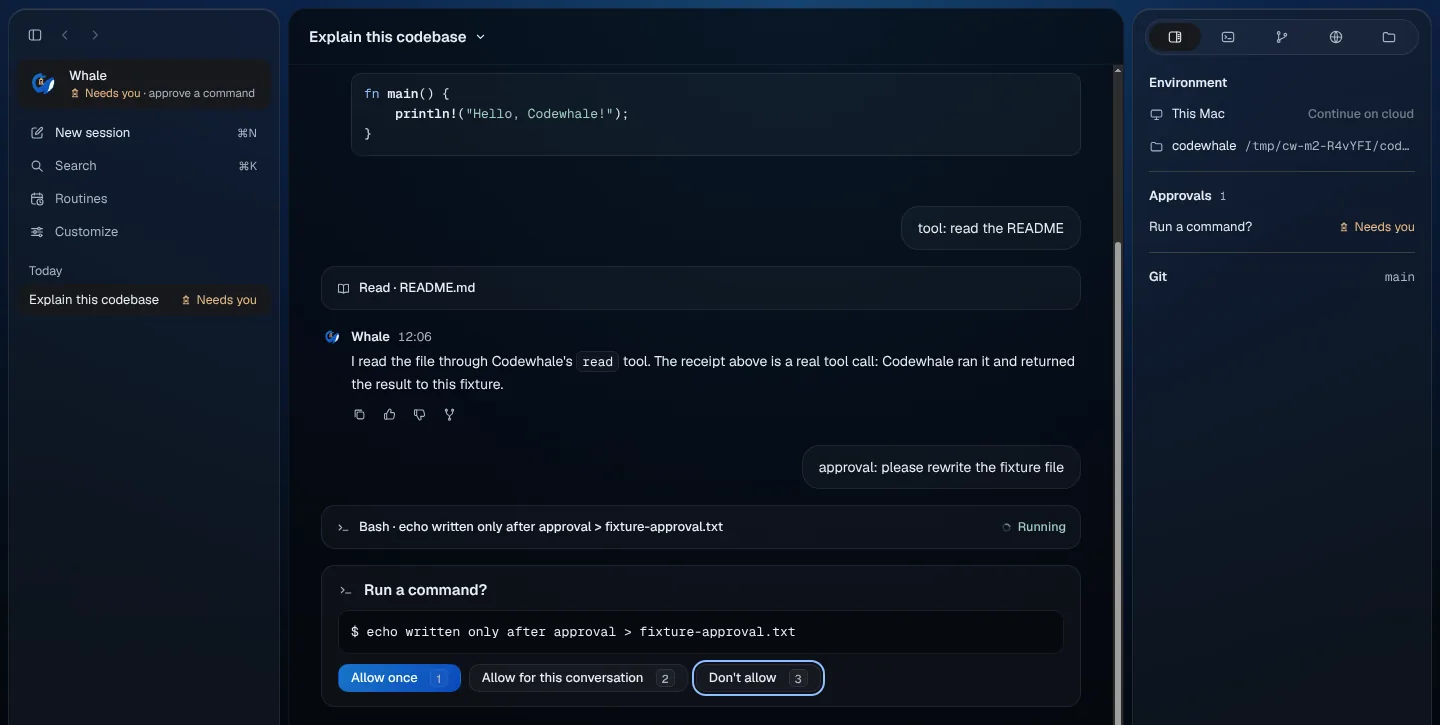
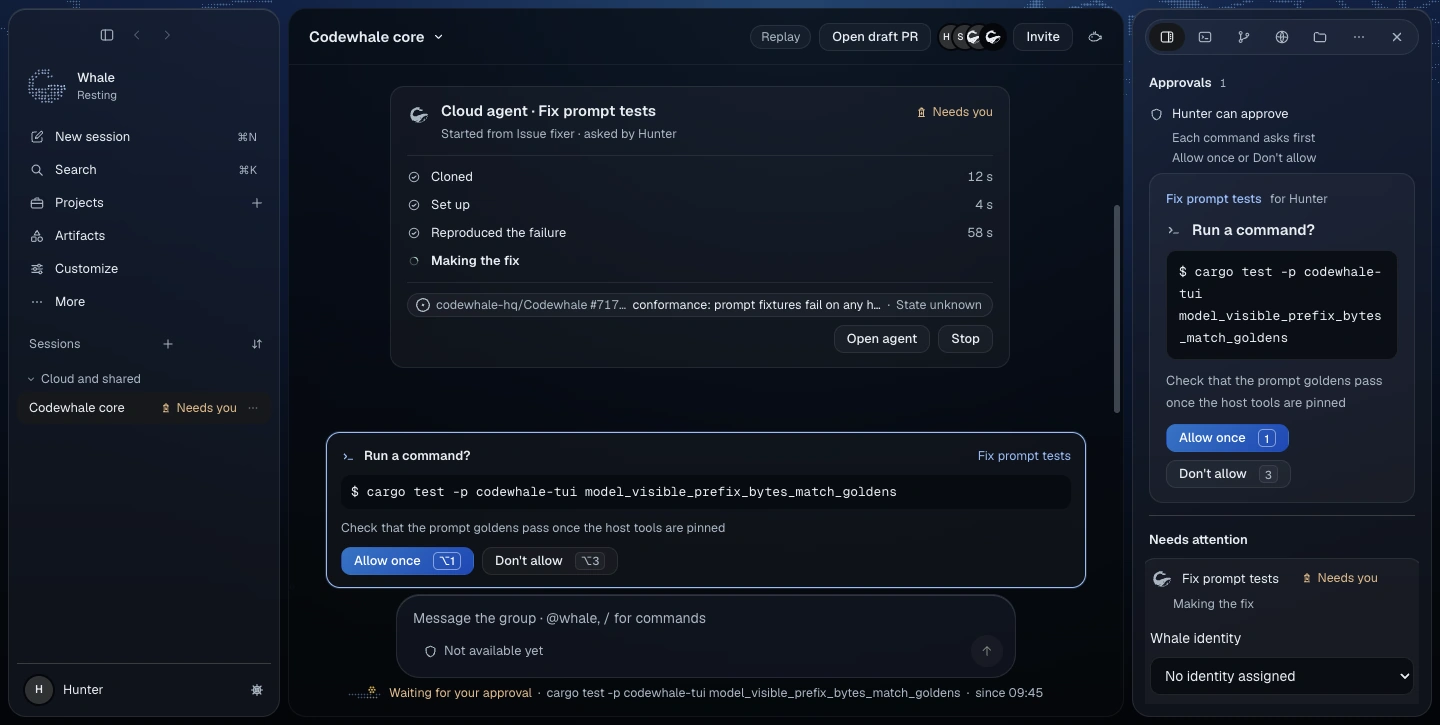
docs(web): refresh /app desktop showcase screenshots and copy for 0.10.3
Regenerated approval.webp, conversation.webp, and model-picker.webp via codewhale-app's reproducible record:desktop pipeline and updated APP_COPY.shots alt and caption copy in web/lib/content/app-page.ts to match the 0.10.3 desktop captures.

Checks: npm test (7/7 node tests, 93 files / 1321 vitest tests passed); check:facts, check:docs, check:tokens, tsc --noEmit, preflight: OK.

diff --git a/web/lib/content/app-page.ts b/web/lib/content/app-page.ts
@@ -62,12 +62,12 @@ export const APP_COPY = {
       width: 1440,
       height: 725,
       alt: {
-        en: "The desktop app showing a session named Explain this codebase. A sub-agent is running, and a side panel lists the agent, one changed file, the git branch and a short activity log.",
-        zh: "桌面应用中名为 Explain this codebase 的会话。一个子智能体正在运行，侧边栏列出该智能体、一个已更改的文件、Git 分支和简短的活动记录。",
+        en: "The desktop app showing a session named Codewhale core. A cloud agent named Fix prompt tests changed two files, ran an approved test command, and the side panel lists Changes, Ready to review, Environment, People and Activity.",
+        zh: "桌面应用中名为 Codewhale core 的会话。名为 Fix prompt tests 的云端智能体修改了两个文件并运行了已批准的测试命令，侧边栏列出更改、待审阅、环境、成员和活动记录。",
       },
       caption: {
-        en: "A session with a sub-agent running. The side panel keeps agents, changes and activity next to the conversation. Development build capture.",
-        zh: "子智能体运行中的会话。侧边栏把智能体、改动和活动记录放在对话旁边。开发版本截图。",
+        en: "A session with a cloud agent ready to review. The side panel keeps changes, environment, people and activity next to the conversation. Development build capture.",
+        zh: "云端智能体完成改动待审阅的会话。侧边栏把更改、环境、成员和活动记录放在对话旁边。开发版本截图。",
       },
     },
     {
@@ -75,8 +75,8 @@ export const APP_COPY = {
       width: 1440,
       height: 725,
       alt: {
-        en: "The desktop app asking Run a command? with the exact shell command shown and three buttons: Allow once, Allow for this conversation and Don't allow.",
-        zh: "桌面应用弹出“Run a command?”的询问，显示完整的 shell 命令，并提供三个按钮：Allow once、Allow for this conversation 和 Don't allow。",
+        en: "The desktop app asking Run a command? with the exact shell command shown and two buttons: Allow once and Don't allow.",
+        zh: "桌面应用弹出“Run a command?”的询问，显示完整的 shell 命令，并提供两个按钮：Allow once 和 Don't allow。",
       },
       caption: {
         en: "A command waits for your answer before it runs, with the exact command in view. Development build capture.",
@@ -88,12 +88,12 @@ export const APP_COPY = {
       width: 1440,
       height: 725,
       alt: {
-        en: "The desktop app's new session screen with the model picker open and filtered to two DeepSeek models, beside a thinking-level menu with Default, Off, Low, High and Max.",
-        zh: "桌面应用的新会话界面，模型选择器已打开并筛选出两个 DeepSeek 模型，旁边是包含 Default、Off、Low、High 和 Max 的思考强度菜单。",
+        en: "The desktop app's new session screen with the model picker open, DeepSeek selected on the provider rail, four DeepSeek models listed, and a switch at the bottom for This session or New sessions.",
+        zh: "桌面应用的新会话界面，模型选择器已打开，左侧供应商栏选中 DeepSeek 并列出四个 DeepSeek 模型，底部提供“当前会话”或“新会话”的切换开关。",
       },
       caption: {
-        en: "Choose a model and a thinking level before you start. Development build capture.",
-        zh: "开始前选择模型和思考强度。开发版本截图。",
+        en: "Pick a provider and model before you start, and choose whether the setting applies to this session or new sessions. Development build capture.",
+        zh: "开始前按供应商选择模型，并决定设置应用于当前会话还是新会话。开发版本截图。",
       },
     },
   ] satisfies AppShot[],

diff --git a/CHANGELOG.md b/CHANGELOG.md
@@ -35,6 +35,7 @@ and this project adheres to [Semantic Versioning](https://semver.org/spec/v2.0.0
 
 - **README and contributor credit:** the repository front page now opens the way the website does: the line "The model can be anyone's. The agent should be yours.", one sentence on what Codewhale is, the install command and one picture, with reference detail moved into the linked guides; the 18 translated READMEs follow the same structure and say they are machine-drafted. The contributor wall and the website now count the same 433 people (407 GitHub accounts and the commit authors whose email is not linked to an account), where the website had counted accounts only. `DEPENDENCY_SECURITY.md` moved into `docs/dependency-maintenance.md`, and `.github/SUPPORT.md` says where to ask for help.
 - **Website Plugins page:** The website's Plugins page now describes what the released version does, and a labelled section says what 0.10.3 adds: one Plugins place, Standard and Creator mode, and the Permissions control.
+- **Website `/app` captures:** the `/app` page's desktop build screenshots (`conversation.webp`, `approval.webp`, `model-picker.webp`) and their alt and caption text have been refreshed from the current 0.10.3 desktop UI.
 - **First-time guide on the website:** a new docs page, "Use Codewhale for the first time" (`/docs/first-time`, English and Simplified Chinese), walks someone who has never used a terminal through opening one, installing, choosing the folder Codewhale works in and when that choice matters, opening a terminal in a folder from Finder or File Explorer, connecting a model, a first task, and stopping, undoing and quitting. The install page gains a short "New to the terminal?" block for macOS and Windows that links to it, and `llms.txt` carries the same steps.
 - **Plugin docs and plugin-creator:** Docs now say everything you add is a plugin. The bundled plugin-creator skill no longer tells an agent never to trust or enable a plugin (in Full Access it may, for one it wrote and installed from its project), points code and screen plugins at cordis-plugin-development, and an untouched copy from 0.10.2 now upgrades. The Chinese extension and Runtime API docs now say editor ACP sessions get plugin tools and configured MCP servers.
 - **Model thinking:** New installs show model thinking by default: it streams live in the transcript and collapses under a "Thought for …" header when the answer starts. Existing installs keep their saved setting; turn it on under Model reasoning in chat in /config.

diff --git a/crates/tui/CHANGELOG.md b/crates/tui/CHANGELOG.md
@@ -35,6 +35,7 @@ and this project adheres to [Semantic Versioning](https://semver.org/spec/v2.0.0
 
 - **README and contributor credit:** the repository front page now opens the way the website does: the line "The model can be anyone's. The agent should be yours.", one sentence on what Codewhale is, the install command and one picture, with reference detail moved into the linked guides; the 18 translated READMEs follow the same structure and say they are machine-drafted. The contributor wall and the website now count the same 433 people (407 GitHub accounts and the commit authors whose email is not linked to an account), where the website had counted accounts only. `DEPENDENCY_SECURITY.md` moved into `docs/dependency-maintenance.md`, and `.github/SUPPORT.md` says where to ask for help.
 - **Website Plugins page:** The website's Plugins page now describes what the released version does, and a labelled section says what 0.10.3 adds: one Plugins place, Standard and Creator mode, and the Permissions control.
+- **Website `/app` captures:** the `/app` page's desktop build screenshots (`conversation.webp`, `approval.webp`, `model-picker.webp`) and their alt and caption text have been refreshed from the current 0.10.3 desktop UI.
 - **First-time guide on the website:** a new docs page, "Use Codewhale for the first time" (`/docs/first-time`, English and Simplified Chinese), walks someone who has never used a terminal through opening one, installing, choosing the folder Codewhale works in and when that choice matters, opening a terminal in a folder from Finder or File Explorer, connecting a model, a first task, and stopping, undoing and quitting. The install page gains a short "New to the terminal?" block for macOS and Windows that links to it, and `llms.txt` carries the same steps.
 - **Plugin docs and plugin-creator:** Docs now say everything you add is a plugin. The bundled plugin-creator skill no longer tells an agent never to trust or enable a plugin (in Full Access it may, for one it wrote and installed from its project), points code and screen plugins at cordis-plugin-development, and an untouched copy from 0.10.2 now upgrades. The Chinese extension and Runtime API docs now say editor ACP sessions get plugin tools and configured MCP servers.
 - **Model thinking:** New installs show model thinking by default: it streams live in the transcript and collapses under a "Thought for …" header when the answer starts. Existing installs keep their saved setting; turn it on under Model reasoning in chat in /config.
